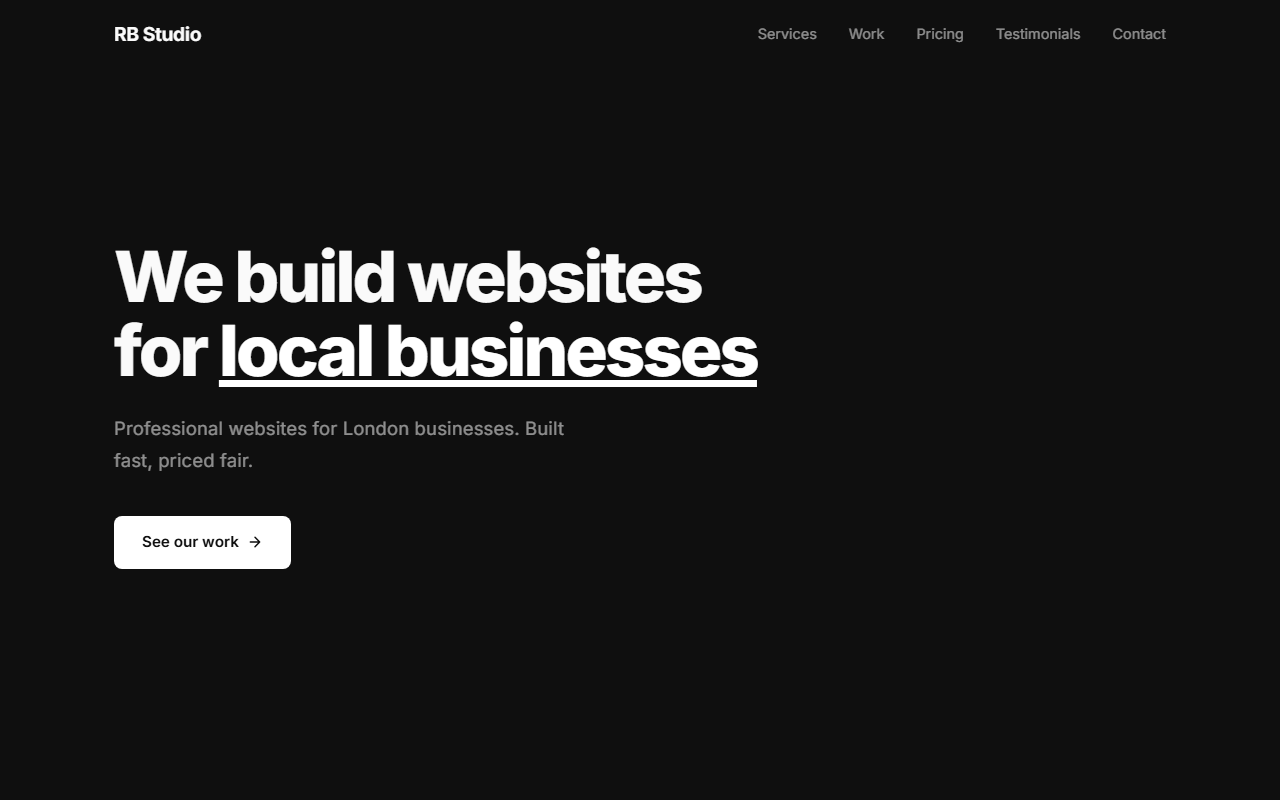
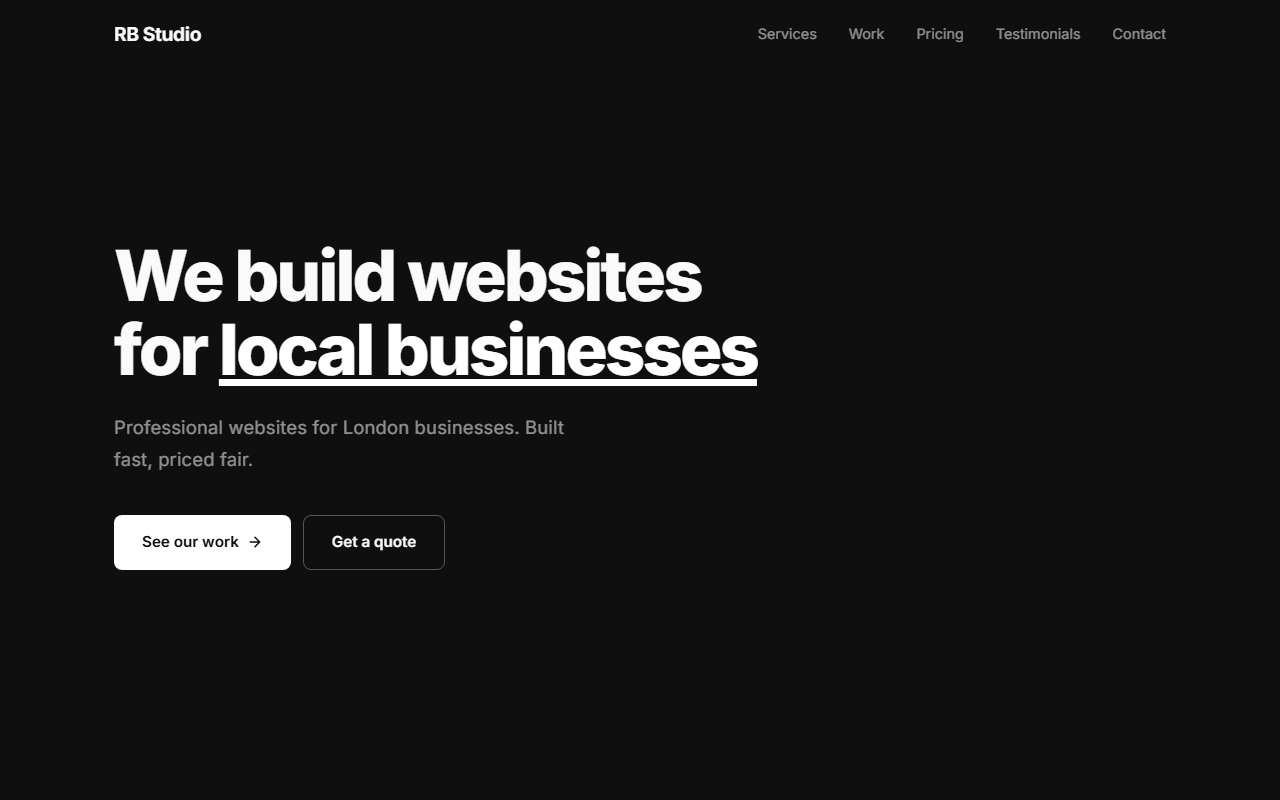
Fix silent enquiry failures and add hero enquiry action
Check the enquiry response status and show the error state when the send
fails, instead of reporting success. Add a Get a quote button to the hero,
raise form labels to 16px, and give the logo links a 44px tap target.
Refresh renders.

diff --git a/index.html b/index.html
@@ -101,6 +101,13 @@
       text-decoration: none;
     }
 
+    .nav-logo,
+    .footer-logo {
+      display: inline-flex;
+      align-items: center;
+      min-height: 44px;
+    }
+
     .nav-links {
       display: flex;
       gap: 32px;
@@ -189,6 +196,23 @@
       background: var(--accent-hover);
       transform: scale(1.04);
       box-shadow: 0 4px 20px var(--accent-glow);
+    }
+
+    .hero-actions {
+      display: flex;
+      flex-wrap: wrap;
+      gap: 12px;
+    }
+
+    .btn-ghost {
+      background: transparent;
+      color: var(--text);
+      border: 1.5px solid rgba(255, 255, 255, 0.3);
+    }
+
+    .btn-ghost:hover {
+      background: var(--accent-tint);
+      transform: scale(1.04);
     }
 
     .link-accent {
@@ -500,7 +524,7 @@
     }
 
     .form-group label {
-      font-size: 0.82rem;
+      font-size: 1rem;
       font-weight: 600;
       color: var(--text);
       letter-spacing: 0.01em;
@@ -1008,11 +1032,12 @@
         <p class="hero-sub fade-in fade-in-delay-2">
           Professional websites for London businesses. Built fast, priced fair.
         </p>
-        <div class="fade-in fade-in-delay-3">
+        <div class="hero-actions fade-in fade-in-delay-3">
           <a href="#work" class="btn btn-primary">
             See our work
             <svg width="16" height="16" viewBox="0 0 24 24" fill="none" stroke="currentColor" stroke-width="2.2" stroke-linecap="round" stroke-linejoin="round"><path d="M5 12h14M12 5l7 7-7 7"/></svg>
           </a>
+          <a href="#contact" class="btn btn-ghost">Get a quote</a>
         </div>
       </div>
     </div>
@@ -1374,11 +1399,12 @@
         const formData = new FormData(enquiryForm);
 
         try {
-          await fetch('/', {
+          const response = await fetch('/', {
             method: 'POST',
             headers: { 'Content-Type': 'application/x-www-form-urlencoded' },
             body: new URLSearchParams(formData).toString()
           });
+          if (!response.ok) throw new Error('Enquiry failed with status ' + response.status);
           enquiryForm.style.display = 'none';
           formSuccess.classList.add('visible');
           document.getElementById('formStatus').textContent = 'Enquiry sent successfully.';
